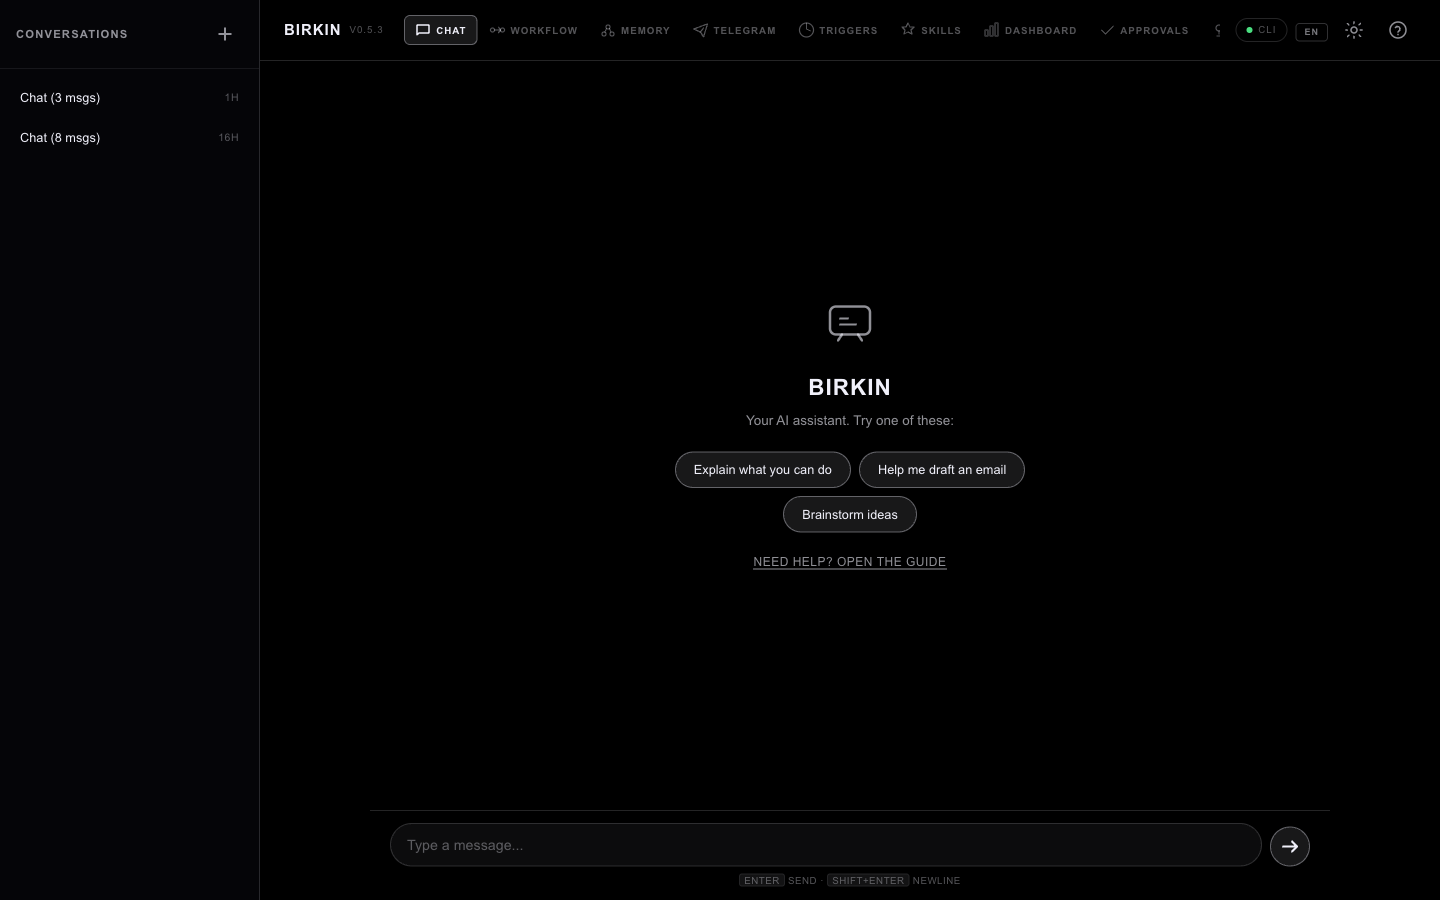
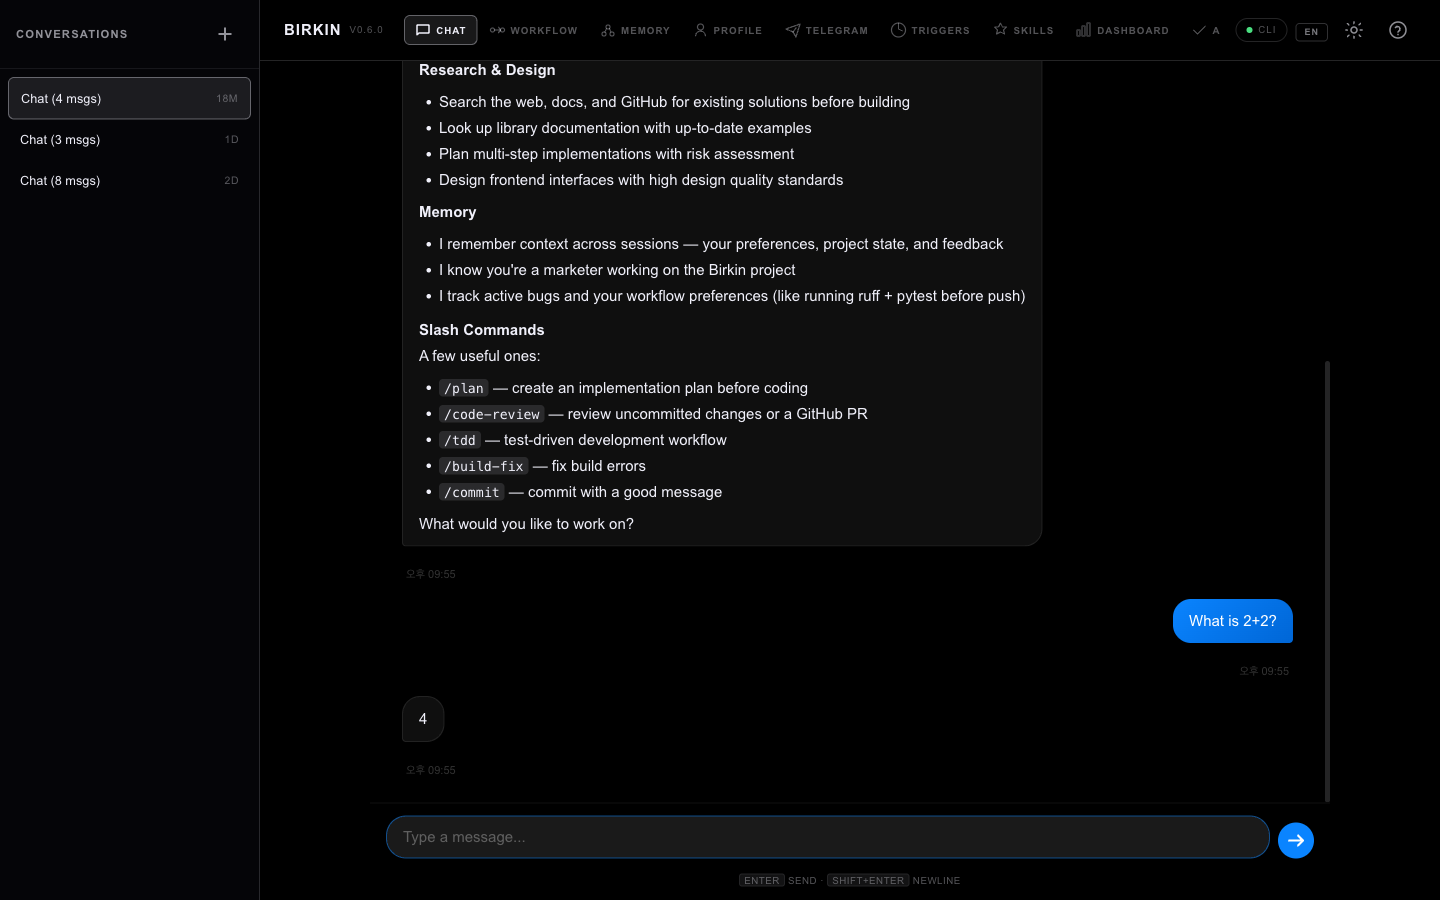
docs: v0.8.0 release — screenshots, README, ROADMAP, version bump
- 5 screenshots refreshed (iMessage chat, workflow+suggest, dashboard,
  10 skills, mobile 375px)
- README/README-ko: 724+ tests, 10 skills, v0.8.0 badges
- ROADMAP: Phase 6 (security, stability, quality gates, iMessage UX)
- Version bump 0.7.0 → 0.8.0

diff --git a/birkin/__init__.py b/birkin/__init__.py
@@ -1,3 +1,3 @@
 """Birkin — AI agent platform."""
 
-__version__ = "0.7.0"
+__version__ = "0.8.0"

diff --git a/ROADMAP.md b/ROADMAP.md
@@ -314,7 +314,64 @@ Every Phase 2 item below maps back to at least one of these three.
 
 ---
 
-## Phase 6: Future (Deferred)
+## Phase 6: Stability, Quality, UX (Complete, v0.8.0)
+
+**Goal:** Close quality gaps, enforce code health, add first-run experience, and upgrade chat to iMessage grade.
+
+**Tests: 685 → 724 (+39). 10 commits.**
+
+### Security Hardening (Complete)
+
+- [x] **Memory poisoning defense** — 9 regex patterns for prompt injection, code-block-aware, warning logs
+- [x] **Skill loader sandboxing** — AST static analysis blocks subprocess, eval, exec, socket before install
+- [x] **Memory audit trail** — MemoryAuditor logs writes/accesses, explain_memory API, 3 new endpoints
+- [x] **Security self-check** — `GET /api/security/check` returns 8-point score + grade (shell, files, data, sanitization, skills, approval, audit, network)
+
+### Stability (Complete)
+
+- [x] **E2E flywheel tests** — 6 integration tests: pattern→suggestion, dismiss→never returns, workflow→wiki, memory injection, sanitization, feedback scoring
+- [x] **ErrorReporter** — Non-fatal error surfacing via SSE stream, wired into Agent memory save failures
+- [x] **Recommender eval dataset** — 20 labeled scenarios, precision/recall harness, both > 0.7
+
+### First Experience (Complete)
+
+- [x] **10 seed skills** — code-explainer, daily-digest, data-analyzer, email-drafter, file-organizer, meeting-prep, note-taker, translator (+ 2 existing). All with tool.py + bilingual triggers
+- [x] **Post-import review wizard** — `GET /api/profile/review` + `POST /api/profile/confirm`. Card grid UI with Accept/Delete per page after profile compilation
+- [x] **FAISS vector store** — Optional `faiss-cpu` for 10k+ items, auto-fallback to NumpyVectorStore
+
+### Code Quality Gates (Complete)
+
+- [x] **Ruff rules expanded** — C90 (complexity ≤15), B (bugbear), SIM, UP, RUF, PIE, RET, T20 (no-print). 471 violations fixed
+- [x] **Pre-commit hook** — ruff lint + format + selective test on every commit
+- [x] **File size limits** — 400-line max with `.file-size-exceptions`
+- [x] **CI hardening** — lint-first, coverage --cov-fail-under=60, file size check, multi-Python (3.11/3.12/3.13)
+- [x] **AGENTS.md rewrite** — Current codebase structure, golden rules, anti-patterns
+
+### iMessage-Grade Chat UX (Complete)
+
+- [x] **Gradient user bubbles** — Blue gradient + pop animation + rounded corners (18px/4px)
+- [x] **Bouncing dots typing indicator** — ●●● with elapsed time, replaces text blink
+- [x] **Streaming cursor** — Blinking block cursor during SSE streaming
+- [x] **Timestamps** — HH:MM under each message
+- [x] **Frosted input bar** — Rounded 20px + backdrop-blur + circular blue send button
+- [x] **Tool chips** — Compact inline chips with click-to-expand detail
+- [x] **Toast notifications** — Top-center system error toasts with auto-dismiss
+
+### Phase 6 — Summary
+
+| Sprint | Features | Tests | Key Impact |
+|--------|----------|-------|------------|
+| Security | 4 | +21 | Injection guard, skill sandbox, audit, self-check |
+| Stability | 3 | +13 | E2E flywheel, error reporter, eval dataset |
+| First Experience | 3 | +5 | 10 skills, review wizard, FAISS |
+| Quality Gates | 5 | +0 | Ruff rules, hooks, CI, file limits |
+| Chat UX | 7 | +0 | iMessage-grade bubbles, dots, cursor, toasts |
+
+**Total: 22 features. Tests: 685 → 724 (+39). Ruff 0 errors across 202 files.**
+
+---
+
+## Phase 7: Future (Deferred)
 
 Monetization and business-model decisions are intentionally deferred. Birkin stays focused on a single-user, self-hosted, open-source experience.
 

diff --git a/README-ko.md b/README-ko.md
@@ -18,8 +18,8 @@
 <p align="center">
   <img src="https://img.shields.io/badge/license-MIT-blue.svg" alt="MIT License" />
   <img src="https://img.shields.io/badge/python-3.11%2B-blue" alt="Python 3.11+" />
-  <img src="https://img.shields.io/badge/version-v0.7.0-green" alt="v0.7.0" />
-  <img src="https://img.shields.io/badge/tests-706%2B-brightgreen" alt="706+ tests" />
+  <img src="https://img.shields.io/badge/version-v0.8.0-green" alt="v0.8.0" />
+  <img src="https://img.shields.io/badge/tests-724%2B-brightgreen" alt="724+ tests" />
   <img src="https://img.shields.io/badge/providers-9-orange" alt="9 Providers" />
 </p>
 
@@ -228,14 +228,14 @@ birkin/
 ├── memory/         위키, 컴파일러, 분류기, 시맨틱 검색, 감사 추적
 ├── gateway/        FastAPI (18 라우터, 66 엔드포인트)
 ├── triggers/       크론, 파일 감시, 웹훅, 메시지
-├── skills/         SKILL.md 플러그인 시스템 + AST 샌드박싱
+├── skills/         10개 내장 스킬 + AST 샌드박싱
 ├── tools/          쉘, 파일 작업, 웹 검색, 위키 조회
 ├── mcp/            MCP 클라이언트 + 서버 + 브라우저 자동화
 ├── eval/           JSONL 평가 프레임워크
 ├── observability/  구조화 트레이싱 (span, trace)
 ├── voice/          Whisper STT + TTS
 ├── web/            10탭 WebUI
-└── tests/          706+ 테스트
+└── tests/          724+ 테스트
 ```
 
 ### 설계 원칙
@@ -267,7 +267,7 @@ birkin/
 | 한국어 NER | 없음 | 없음 | **네이티브** |
 | 셀프 호스팅 보안 | 138 CVE (2026 Q1) | 제한적 | **최소 표면** |
 | 프로바이더 | 멀티 | 멀티 | **9개 + 자동 라우팅** |
-| 테스트 | ~200 | ~100 | **706+** |
+| 테스트 | ~200 | ~100 | **724+** |
 
 ---
 

diff --git a/README.md b/README.md
@@ -18,8 +18,8 @@
 <p align="center">
   <img src="https://img.shields.io/badge/license-MIT-blue.svg" alt="MIT License" />
   <img src="https://img.shields.io/badge/python-3.11%2B-blue" alt="Python 3.11+" />
-  <img src="https://img.shields.io/badge/version-v0.7.0-green" alt="v0.7.0" />
-  <img src="https://img.shields.io/badge/tests-706%2B-brightgreen" alt="706+ tests" />
+  <img src="https://img.shields.io/badge/version-v0.8.0-green" alt="v0.8.0" />
+  <img src="https://img.shields.io/badge/tests-724%2B-brightgreen" alt="724+ tests" />
   <img src="https://img.shields.io/badge/providers-9-orange" alt="9 Providers" />
 </p>
 
@@ -228,14 +228,14 @@ birkin/
 ├── memory/         Wiki, compiler, classifier, semantic search, audit trail
 ├── gateway/        FastAPI (18 routers, 66 endpoints)
 ├── triggers/       Cron, file watch, webhook, message
-├── skills/         SKILL.md plugin system + AST sandboxing
+├── skills/         10 built-in skills + AST sandboxing
 ├── tools/          Shell, file ops, web search, wiki read
 ├── mcp/            MCP client + server + browser automation
 ├── eval/           JSONL evaluation framework
 ├── observability/  Structured tracing (spans, traces)
 ├── voice/          Whisper STT + TTS
 ├── web/            10-tab WebUI
-└── tests/          706+ tests
+└── tests/          724+ tests
 ```
 
 ### Design Principles
@@ -267,7 +267,7 @@ birkin/
 | Korean NER | No | No | **Native** |
 | Self-hosted security | 138 CVEs (2026 Q1) | Limited | **Minimal surface** |
 | Providers | Multi | Multi | **9 + auto-routing** |
-| Tests | ~200 | ~100 | **706+** |
+| Tests | ~200 | ~100 | **724+** |
 
 ---
 
